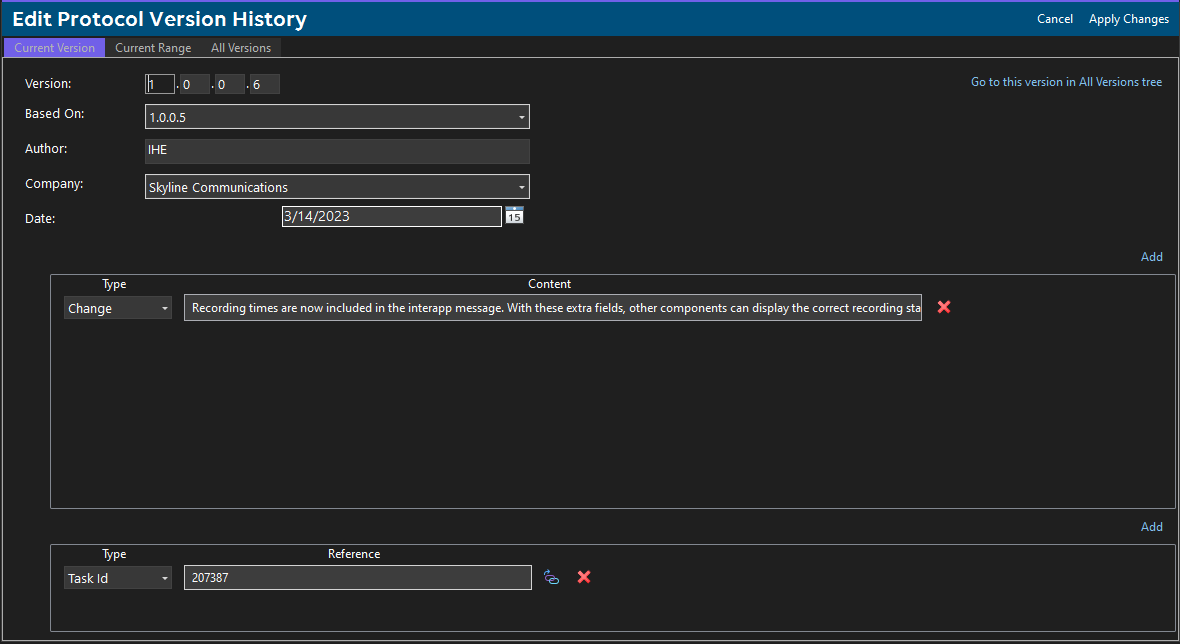
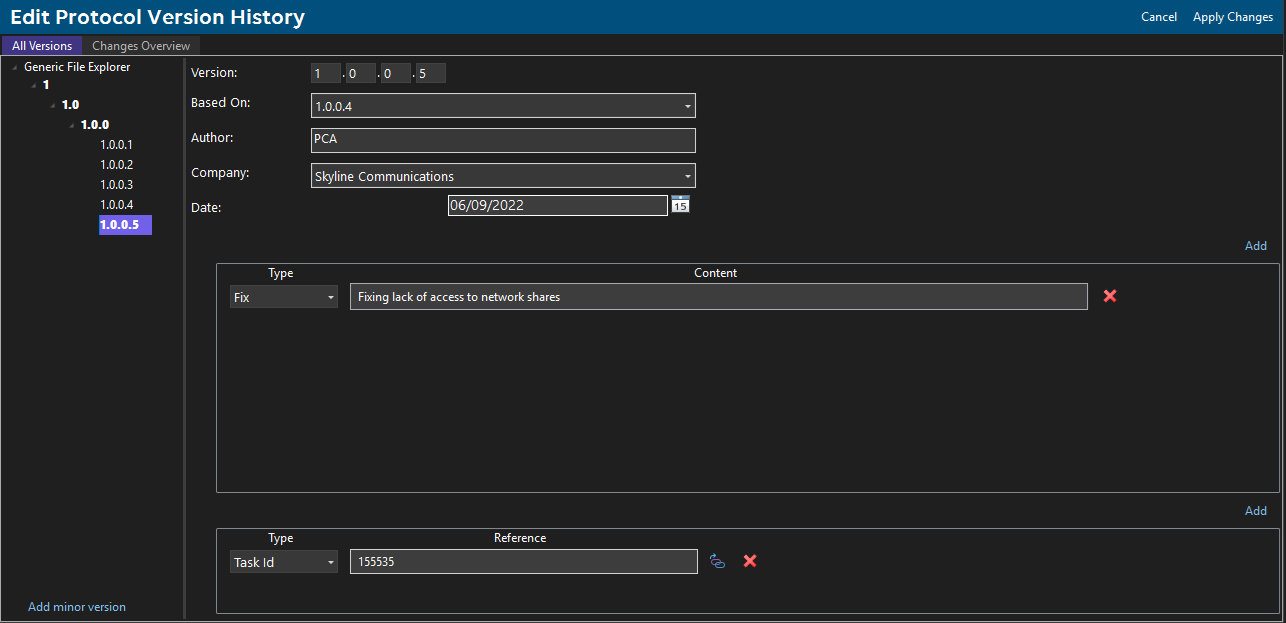
Release Notes DIS 3.1.9 and DIS Version Editor update

Changed region(s): [[0.0, 0.0915, 1.0, 1.0], [0.0, 0.0, 1.0, 0.3965], [0.122, 0.3965, 0.1525, 0.427]]

diff --git a/develop/TOOLS/DIS/Editors/Version_editor.md b/develop/TOOLS/DIS/Editors/Version_editor.md
@@ -10,11 +10,9 @@ If you click *Version Editor* in the file tab header when editing a protocol XML
 
 If you want to save the changes you made and return to the XML editor, click *Apply Changes*. If you want to discard the changes you made, click *Cancel*.
 
-## Current version
+## All versions
 
 In this tab, you can specify the general properties of the current (minor) version (version number, author, date, etc.), a list of all features, changes and fixes in this version, and a list of references.
-
-If you click *Go to this version in All Versions tree*, the *All Versions* tab will open and the current version will be selected in the version tree.
 
 ### Features, changes and fixes
 
@@ -66,15 +64,7 @@ To remove a reference
 >
 > See also: [Interface](xref:DIS_settings#interface)
 
-## Current range
-
-In this tab, you can find an overview of all versions in the current range.
-
-Clicking a version number will open the *All Versions* tab to allow you to edit the information stored for that particular version.
-
-## All versions
-
-In this tab, you can find an overview of all versions of the current protocol.
+In this tab, you can also find an overview of all versions of the current protocol.
 
 - In the tree structure on the left, you can add and delete branches representing branch versions, system versions, major versions and minor versions by right-clicking a node and selecting the appropriate menu command. At the bottom of the pane, you can also find a button to add a minor version.
 - In the edit pane on the right, you can edit the properties of the version selected on the left.
@@ -82,7 +72,7 @@ In this tab, you can find an overview of all versions of the current protocol.
   - To a branch version, you can add a list of branch features.
   - To a system version, you can add a list of system requirements.
   - To a major version, you can add a list of major changes.
-  - To a minor version, you can add a list of features, changes and fixes, and a list of references. See also [Current version](#current-version).
+  - To a minor version, you can add a list of features, changes and fixes, and a list of references.
 
 > [!NOTE]
 >
@@ -90,3 +80,10 @@ In this tab, you can find an overview of all versions of the current protocol.
 > - When you select a version that is not the current version, you can click the *Set this version as current button* to make that version the current version. Also, in the version tree on the left, you can right-click a version and select *Set as current version*. The current version and all its parent versions will be marked in bold.
 > - When you create a new version, the *Based On* field will now automatically be populated when possible.
 > - When you add a minor version, this new version will automatically inherit all data from the current version and become itself the new current version.
+
+
+## Changes Overview
+
+In this tab, you can find an overview of all versions in the current range.
+
+Clicking a version number will open the *All Versions* tab to allow you to edit the information stored for that particular version.

diff --git a/release-notes/DIS/DIS_3.1.md b/release-notes/DIS/DIS_3.1.md
@@ -4,6 +4,25 @@ uid: DIS_3.1
 
 # DIS 3.1
 
+## DIS 3.1.9
+
+### New features
+
+#### IDE
+
+##### Version history editor update [ID 42674]
+
+The version history editor in DIS has been reworked. This includes the following changes:
+
+- The "Current Version" page has been removed. This page has been changed to the "All Versions" page which was pervious the last tabpage. This makes it more intuitive to add new minor and major version.
+- The "Current Range" page has been renamed to "Changes Overview". In the Change Overview page, the following new features have been added:
+  - The full history of the connector is shown, this is created by the "Based On" parameter on each version. The newest version is on top of the table shown. 
+  - This table now supports search via the search box and the searched value will be highlighted and the rows are filtered to only show the ones containing that value.
+  - The width of the last column of the table is dynamically adjustment. (This column has also been renamed to "Changes") to better represent content of this column.
+- Some additional layout updates have been performed. Mainly to alignments to make the overview look more readable.
+
+![Version editor](~/develop/images/DIS_VersionHistoryEditor.png)
+
 ## DIS 3.1.8
 
 ### New features
